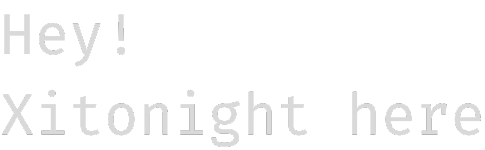
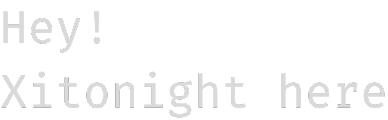
Update README

diff --git a/README.md b/README.md
@@ -1,21 +1,69 @@
 <p align="left">
-    <img src="./assets/man_raising_hand.png" height="150" width="150">
-    <img src="./assets/hi_there.png">
+    <img src="./assets/man_raising_hand.png" width="110" height="110">
+    <img src="./assets/hi_there.png" width="356" height="110">
 </p>
 
-----------
+<hr>
 
-<div align="center">
-    <img src="https://github-readme-stats.vercel.app/api?username=Xitonight&theme=dark&show_icons=true&hide_border=true&count_private=true" alt="Xitonight's GitHub Stats" height="180"/>
-    <img src="https://github-readme-stats.vercel.app/api/top-langs/?username=Xitonight&theme=dark&show_icons=true&hide_border=true&layout=compact" alt="Xitonight's GitHub Stats" height="180" />
-</div>
-
+<details>
+    <summary>GitHub stats</summary>
+    <div align="left">
+        <img src="https://github-readme-stats.vercel.app/api?username=Xitonight&theme=dark&show_icons=true&hide_border=true&count_private=true" alt="Xitonight's GitHub Stats" height="180"/>
+        <img src="https://github-readme-stats.vercel.app/api/top-langs/?username=Xitonight&theme=dark&show_icons=true&hide_border=true&layout=compact" alt="Xitonight's GitHub Stats" height="180" />
+    </div>
+    <br>
+    <blockquote> Do note that these stats are purely representative of the files in each repo and they mean very little </blockquote>
+    <hr>
+</details>
 
 # <img src="https://raw.githubusercontent.com/Tarikul-Islam-Anik/Animated-Fluent-Emojis/master/Emojis/People/Man%20Technologist.png" alt="Man Technologist" width="30" height="30" /> About me
 
-Hi! I'm **Alex** but you can call me **Xito**! <br>
-I'm a 19y/o self-taught dev from Italy 🇮🇹 <br>
-I started this journey many years ago, but i never had the courage to properly step into coding. I'm still a newbie so I appreciate any kind of suggestion!
+- Hi! My name is **Alex** but you can call me **Xito**! I'm a 19y/o passionate student and self-taught dev from Italy 🇮🇹 <br>
+I started this journey many years ago, but I never had the courage to properly step into coding, but now, I finally decided to get serious about it. I'm still a newbie so I appreciate any kind of suggestion! <br>
+I would also like to mention that I'm really prone to any kind of collaboration, so feel free to ask for a hand! <br>
+
+# <img src="https://raw.githubusercontent.com/Tarikul-Islam-Anik/Animated-Fluent-Emojis/master/Emojis/Objects/Hammer%20and%20Wrench.png" alt="Hammer and Wrench" width="30" height="30" /> My tech stack
+
+<table>
+    <tr>
+        <th> Languages </th>
+        <th> Frameworks </th>
+        <th> Other tools </th>
+    </tr>
+    <tr>
+        <td>
+            <a href="https://skillicons.dev">
+                <img src="https://skillicons.dev/icons?i=cpp,ts,py,kotlin,dart,bash,nix,html,css,bootstrap,tailwind&perline=3" />
+            </a>
+        </td>
+        <td> 
+            <a href="https://skillicons.dev">
+                <img src="https://skillicons.dev/icons?i=react,vue,flutter&perline=3" />
+            </a>
+        </td>
+        <td>
+            <a href="https://skillicons.dev">
+                <img src="https://skillicons.dev/icons?i=linux,latex,git,neovim,firebase&perline=3" />
+            </a>
+        </td>
+    </tr>
+</table>
 
 # <img src="https://raw.githubusercontent.com/Tarikul-Islam-Anik/Animated-Fluent-Emojis/master/Emojis/Travel%20and%20places/Globe%20with%20Meridians.png" alt="Globe with Meridians" width="30" height="30" /> Where to find me
 
+> I mainly use Telegram, so yeah...
+
+<div align="left">
+    <a href="https://discord.com/users/423893309749067776">
+        <img src="https://raw.githubusercontent.com/maurodesouza/profile-readme-generator/master/src/assets/icons/social/discord/default.svg" width="52" height="40" alt="discord logo"  />
+    </a>
+    <a href="https://www.youtube.com/@xitonight">
+        <img src="https://raw.githubusercontent.com/maurodesouza/profile-readme-generator/master/src/assets/icons/social/youtube/default.svg" width="52" height="40" alt="youtube logo"  />
+    </a>
+    <a href="https://t.me/Xitonight">
+        <img src="https://raw.githubusercontent.com/maurodesouza/profile-readme-generator/master/src/assets/icons/social/telegram/default.svg" width="52" height="40" alt="telegram logo"  />
+    </a>
+    <a href="mailto:your-email@gmail.com">
+        <img src="https://raw.githubusercontent.com/maurodesouza/profile-readme-generator/master/src/assets/icons/social/gmail/default.svg" width="52" height="40" alt="gmail logo"  />
+    </a>
+</div>
